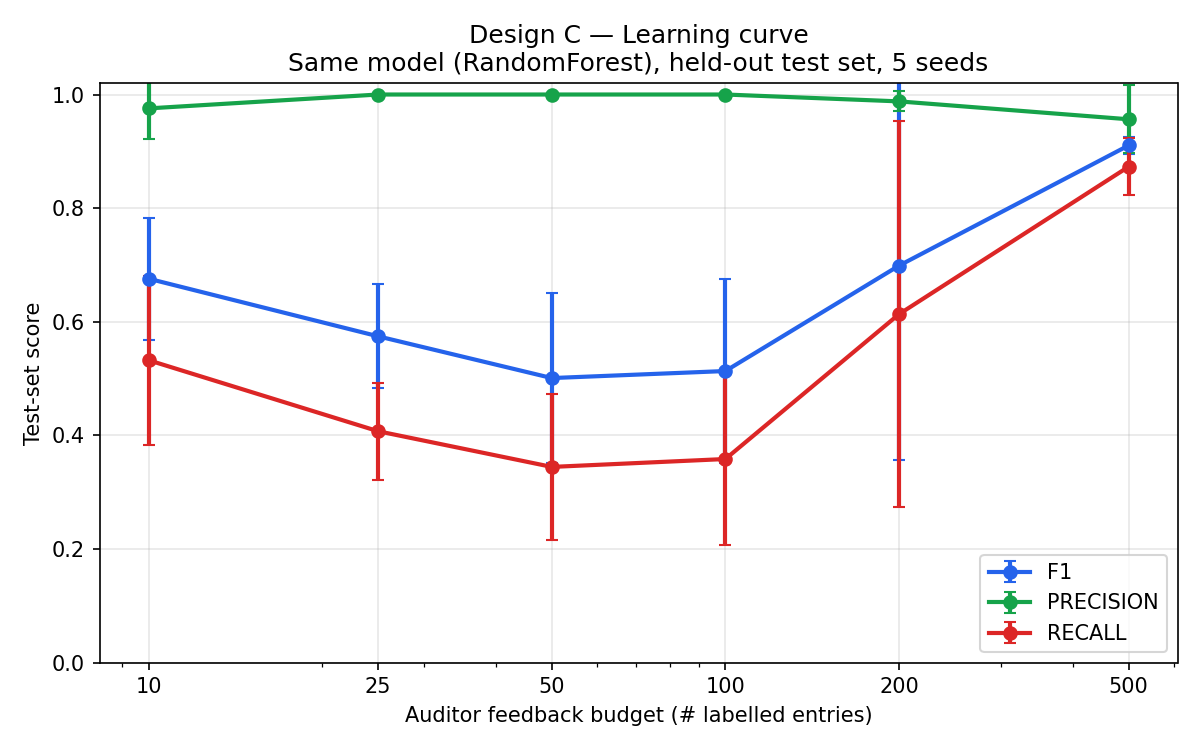
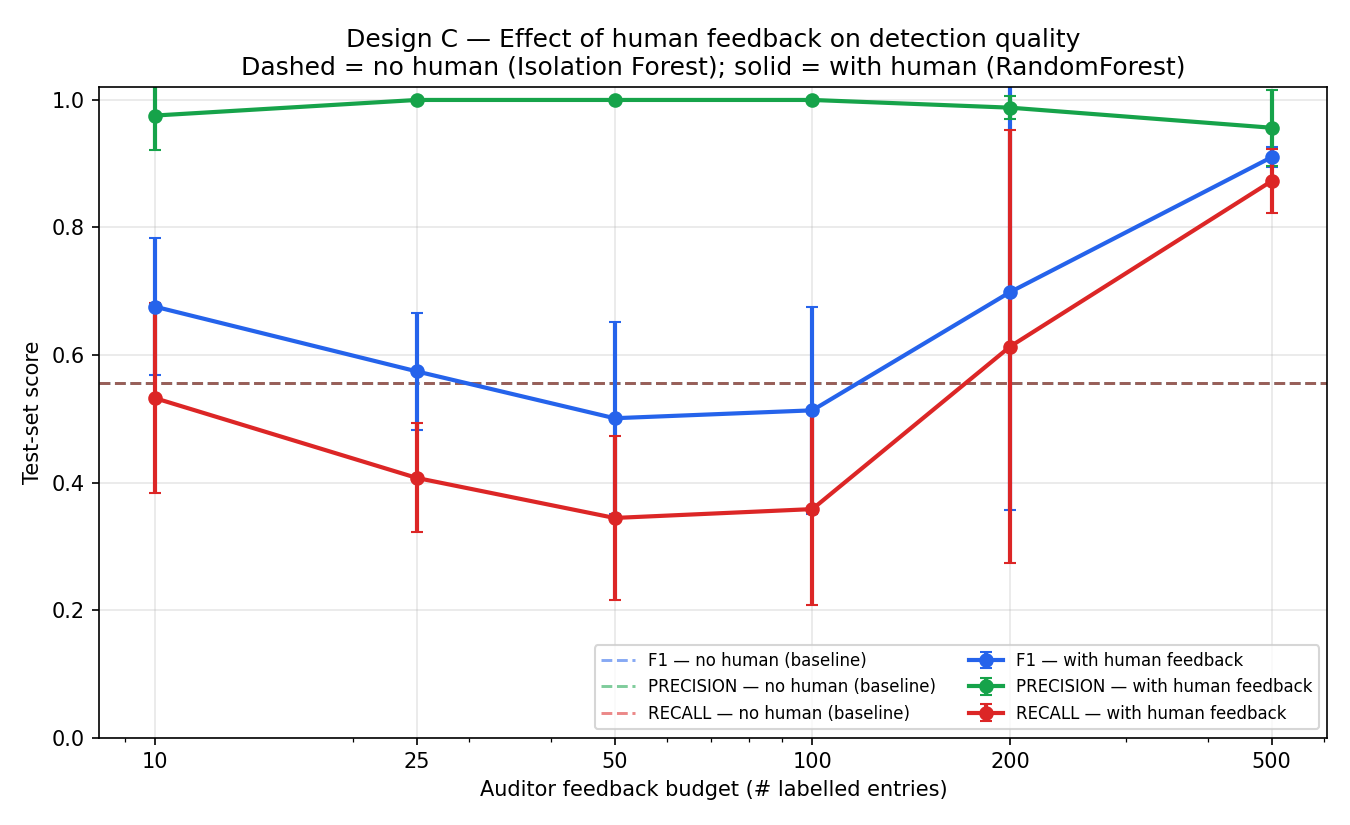
Add no-human baseline to Design C chart
Pure Isolation Forest with zero labels is now plotted as dashed lines, so
the "before the auditor touches anything" point is visible alongside the
with-feedback curve. Makes the before/after gap easier to read.

diff --git a/results/design_c/REPORT.md b/results/design_c/REPORT.md
@@ -12,8 +12,8 @@ stratified), evaluated against the full ground-truth label column.
 | 200 | 0.699 | 0.342 | 0.988 | 0.613 | 0.996 |
 | 500 | 0.910 | 0.016 | 0.956 | 0.873 | 0.998 |
 
-**Headline:** F1 climbs from **0.676** at 10 reviews
-to **0.910** at 500 reviews — a gain of **+0.235**
+**Headline:** F1 climbs from **0.556** at 10 reviews
+to **0.910** at 500 reviews — a gain of **+0.354**
 attributable purely to additional auditor feedback, since the algorithm and
 test set are held constant.
 